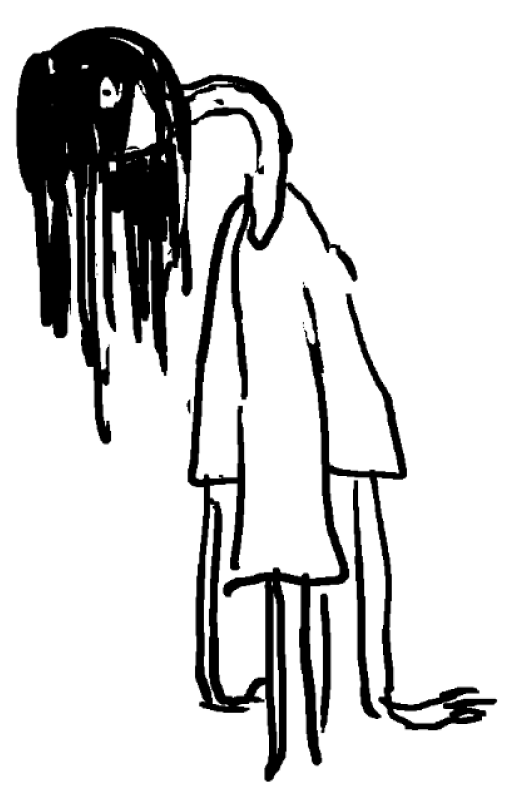
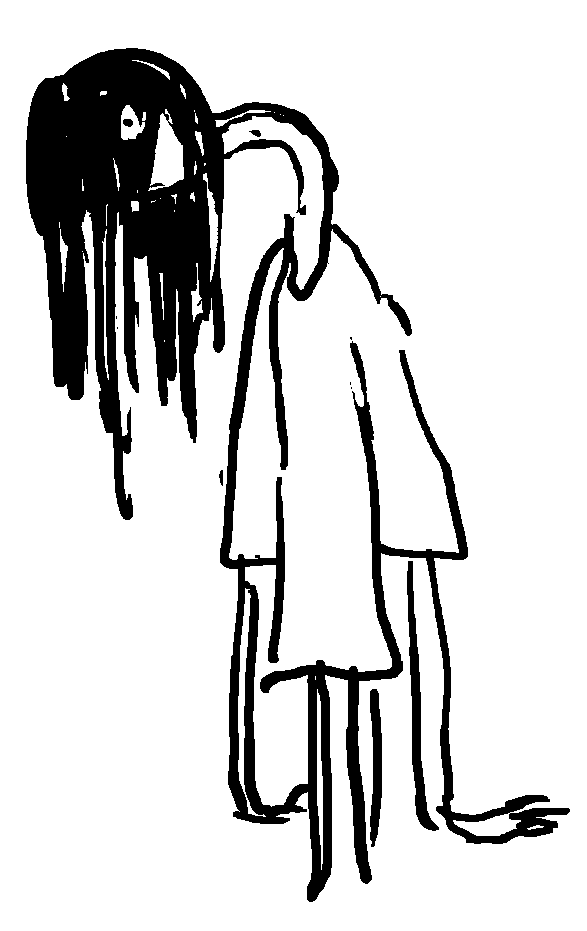
all kinds of things

Changed region(s): [[0.0311, 0.0312, 0.9631, 0.9988]]

diff --git a/src/main.rs b/src/main.rs
@@ -34,6 +34,9 @@ impl geng::AbstractCamera3d for Camera {
 pub struct Shaders {
     pub wall: ugli::Program,
     pub billboard: ugli::Program,
+    pub sprite: ugli::Program,
+    pub horizontal_sprite: ugli::Program,
+    pub vertical_sprite: ugli::Program,
 }
 
 pub fn make_repeated(texture: &mut ugli::Texture) {
@@ -50,6 +53,13 @@ pub struct Assets {
     #[asset(postprocess = "make_repeated")]
     pub ceiling: ugli::Texture,
     pub ghost: ugli::Texture,
+    pub key: ugli::Texture,
+    pub table_top: ugli::Texture,
+    pub table_leg: ugli::Texture,
+    pub bed_bottom: ugli::Texture,
+    pub bed_back: ugli::Texture,
+    #[asset(path = "box.png")]
+    pub box_texture: ugli::Texture,
 }
 
 pub struct Wall {
@@ -165,12 +175,14 @@ impl Game {
         }
     }
 
-    fn draw_billboard(
+    fn draw_texture(
         &self,
         framebuffer: &mut ugli::Framebuffer,
+        program: &ugli::Program,
         texture: &ugli::Texture,
         pos: Vec3<f32>,
         size: f32,
+        rot: f32,
     ) {
         let size = vec2(
             size * texture.size().x as f32 / texture.size().y as f32,
@@ -182,7 +194,7 @@ impl Game {
         }
         ugli::draw(
             framebuffer,
-            &self.assets.shaders.billboard,
+            program,
             ugli::DrawMode::TriangleFan,
             &ugli::VertexBuffer::new_dynamic(self.geng.ugli(), {
                 vec![
@@ -204,6 +216,7 @@ impl Game {
                 ugli::uniforms! {
                     u_pos: pos,
                     u_size: size,
+                    u_rot: rot,
                     u_texture: texture,
                 },
                 geng::camera3d_uniforms(&self.camera, self.framebuffer_size),
@@ -213,6 +226,78 @@ impl Game {
                 depth_func: Some(ugli::DepthFunc::Less),
                 ..default()
             },
+        );
+    }
+
+    fn draw_billboard(
+        &self,
+        framebuffer: &mut ugli::Framebuffer,
+        texture: &ugli::Texture,
+        pos: Vec3<f32>,
+        size: f32,
+        rot: f32,
+    ) {
+        self.draw_texture(
+            framebuffer,
+            &self.assets.shaders.billboard,
+            texture,
+            pos,
+            size,
+            rot,
+        );
+    }
+
+    fn draw_sprite(
+        &self,
+        framebuffer: &mut ugli::Framebuffer,
+        texture: &ugli::Texture,
+        pos: Vec3<f32>,
+        size: f32,
+        rot: f32,
+    ) {
+        self.draw_texture(
+            framebuffer,
+            &self.assets.shaders.sprite,
+            texture,
+            pos,
+            size,
+            rot,
+        );
+    }
+
+    fn draw_horizontal_sprite(
+        &self,
+        framebuffer: &mut ugli::Framebuffer,
+        texture: &ugli::Texture,
+        pos: Vec3<f32>,
+        size: f32,
+        rot: f32,
+    ) {
+        self.draw_texture(
+            framebuffer,
+            &self.assets.shaders.horizontal_sprite,
+            texture,
+            pos,
+            size,
+            rot,
+        );
+    }
+
+    fn draw_vertical_sprite(
+        &self,
+        framebuffer: &mut ugli::Framebuffer,
+        texture: &ugli::Texture,
+        pos: Vec3<f32>,
+        size: f32,
+        rot: f32,
+    ) {
+        self.draw_texture(
+            framebuffer,
+            &self.assets.shaders.vertical_sprite,
+            texture,
+            pos,
+            size,
+            rot,
         );
     }
 }
@@ -318,7 +403,120 @@ impl geng::State for Game {
             },
         );
 
-        self.draw_billboard(framebuffer, &self.assets.ghost, vec3(0.0, 0.0, 0.0), 0.7);
+        self.draw_billboard(
+            framebuffer,
+            &self.assets.ghost,
+            vec3(-0.7, 0.0, 0.0),
+            0.7,
+            0.0,
+        );
+        self.draw_horizontal_sprite(
+            framebuffer,
+            &self.assets.table_top,
+            vec3(0.0, 0.0, 0.3),
+            0.3,
+            0.0,
+        );
+        self.draw_billboard(
+            framebuffer,
+            &self.assets.table_leg,
+            vec3(-0.1, -0.1, 0.0),
+            0.3,
+            0.0,
+        );
+        self.draw_billboard(
+            framebuffer,
+            &self.assets.table_leg,
+            vec3(0.1, -0.1, 0.0),
+            0.3,
+            0.0,
+        );
+        self.draw_billboard(
+            framebuffer,
+            &self.assets.table_leg,
+            vec3(0.1, 0.1, 0.0),
+            0.3,
+            0.0,
+        );
+        self.draw_billboard(
+            framebuffer,
+            &self.assets.table_leg,
+            vec3(-0.1, 0.1, 0.0),
+            0.3,
+            0.0,
+        );
+
+        self.draw_sprite(
+            framebuffer,
+            &self.assets.key,
+            vec3(0.0, 0.0, 0.35),
+            0.05,
+            0.0,
+        );
+
+        let bed_pos = vec2(0.5, 0.0);
+        let bed_rot = 0.3;
+        let bed_size = 0.4;
+        self.draw_vertical_sprite(
+            framebuffer,
+            &self.assets.bed_back,
+            (bed_pos + vec2(0.0, -bed_size).rotate(bed_rot)).extend(0.0),
+            bed_size,
+            bed_rot,
+        );
+        self.draw_vertical_sprite(
+            framebuffer,
+            &self.assets.bed_back,
+            (bed_pos + vec2(0.0, bed_size).rotate(bed_rot)).extend(0.0),
+            bed_size,
+            bed_rot,
+        );
+        self.draw_horizontal_sprite(
+            framebuffer,
+            &self.assets.bed_bottom,
+            bed_pos.extend(bed_size * 0.3),
+            bed_size,
+            bed_rot + f32::PI / 2.0,
+        );
+
+        let box_pos = vec2(0.0, 0.7);
+        let box_size = 0.3;
+        let box_rot = 0.7;
+        self.draw_horizontal_sprite(
+            framebuffer,
+            &self.assets.box_texture,
+            box_pos.extend(box_size),
+            box_size,
+            box_rot,
+        );
+        self.draw_vertical_sprite(
+            framebuffer,
+            &self.assets.box_texture,
+            (box_pos + vec2(0.0, box_size / 2.0).rotate(box_rot)).extend(0.0),
+            box_size,
+            box_rot,
+        );
+        self.draw_vertical_sprite(
+            framebuffer,
+            &self.assets.box_texture,
+            (box_pos + vec2(0.0, -box_size / 2.0).rotate(box_rot)).extend(0.0),
+            box_size,
+            box_rot,
+        );
+        self.draw_vertical_sprite(
+            framebuffer,
+            &self.assets.box_texture,
+            (box_pos + vec2(box_size / 2.0, 0.0).rotate(box_rot)).extend(0.0),
+            box_size,
+            box_rot + f32::PI / 2.0,
+        );
+        self.draw_vertical_sprite(
+            framebuffer,
+            &self.assets.box_texture,
+            (box_pos + vec2(-box_size / 2.0, 0.0).rotate(box_rot)).extend(0.0),
+            box_size,
+            box_rot + f32::PI / 2.0,
+        );
     }
 
     fn handle_event(&mut self, event: geng::Event) {
